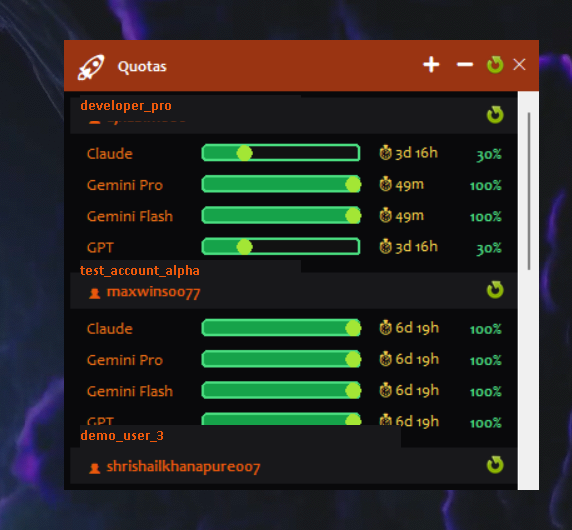
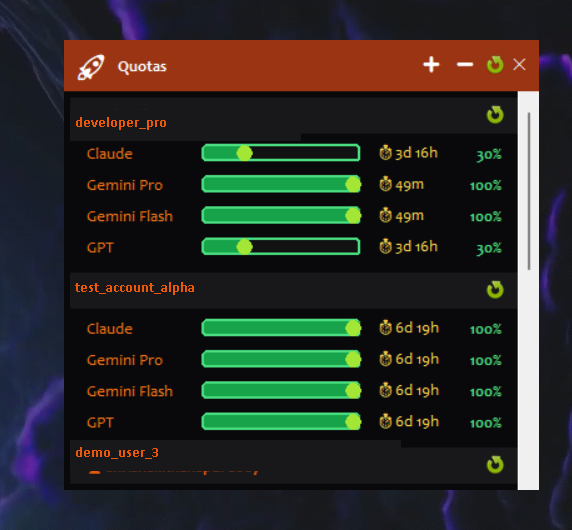
docs: Fix image redaction and match official Antigravity README layout

diff --git a/README.md b/README.md
@@ -1,16 +1,21 @@
 <div align="center">
-  <img src="quota_icon.ico" alt="Logo" width="80" height="80">
-  
-  # Antigravity Multi-Account Tracker
-  
-  **A sleek, neon-themed desktop widget for tracking your Google Antigravity API quotas across multiple accounts in real-time.**
-  
-  ![Python](https://img.shields.io/badge/Python-3.10+-blue?logo=python&logoColor=white)
-  ![Platform](https://img.shields.io/badge/Platform-Windows-blue?logo=windows&logoColor=white)
-  ![License](https://img.shields.io/badge/License-MIT-green)
-
+  <img src="quota_icon.ico" alt="Logo" width="128" height="128" style="border-radius: 16px;">
   <br />
+  
+  # antigravity-multi-account-tracker
+
+  <p align="center">
+    <img src="https://img.shields.io/badge/Python-3.10+-blue?logo=python&logoColor=white" alt="Python Version" />
+    <img src="https://img.shields.io/badge/Platform-Windows-blue?logo=windows&logoColor=white" alt="Platform Windows" />
+    <img src="https://img.shields.io/badge/Dependencies-Zero-success" alt="Zero Dependencies" />
+    <img src="https://img.shields.io/badge/License-MIT-0284c7" alt="License MIT" />
+  </p>
+
+  <p>A sleek, lightweight, neon-themed desktop widget for tracking your Google Antigravity API quotas across multiple accounts in real-time.</p>
+  <p><em>Inspired by the official Antigravity CLI</em></p>
 </div>
+
+<br />
 
 ## 📸 Preview
 
@@ -20,19 +25,19 @@
 
 ## ✨ Features
 
-🔥 **Multi-Account Dashboard**
+🔥 **Multi-Account Dashboard**  
 Track quotas for multiple Google accounts side by side natively on your Windows desktop. 
 
-⏱ **Live Countdown Timers**
+⏱ **Live Countdown Timers**  
 Real-time ticking countdown showing exactly when each model's quota resets (auto-adjusts between daily and weekly limits).
 
-🔄 **Animated Refresh**
+🔄 **Animated Refresh**  
 Click the global refresh and watch it sequentially animate through each account, or refresh accounts individually.
 
-🎨 **Modern Neon UI**
+🎨 **Modern Neon UI**  
 Beautiful, distraction-free aesthetic with a Dark Onyx background, Deep Orange title bar, and dynamic Neon Green progress bars.
 
-🛡 **Thread-Safe & Secure**
+🛡 **Thread-Safe & Secure**  
 - **Zero shell injection:** All subprocess calls use strict argument lists.
 - **Fail-safe timeouts:** 20-second timeout prevents permanent app lockups.
 - **Local auth only:** Your tokens never touch this app; authentication remains securely sandboxed inside the official Antigravity CLI.
@@ -98,7 +103,7 @@ Pull requests are welcome! Potential future features:
 
 If this tool saves you time, consider buying me a coffee!
 
-[![Ko-fi](https://img.shields.io/badge/Ko--fi-Support-ff5e5b?logo=ko-fi&logoColor=white)](https://ko-fi.com/)
+[![Ko-fi](https://ko-fi.com/img/githubbutton_sm.svg)](https://ko-fi.com/)
 
 ---
 
